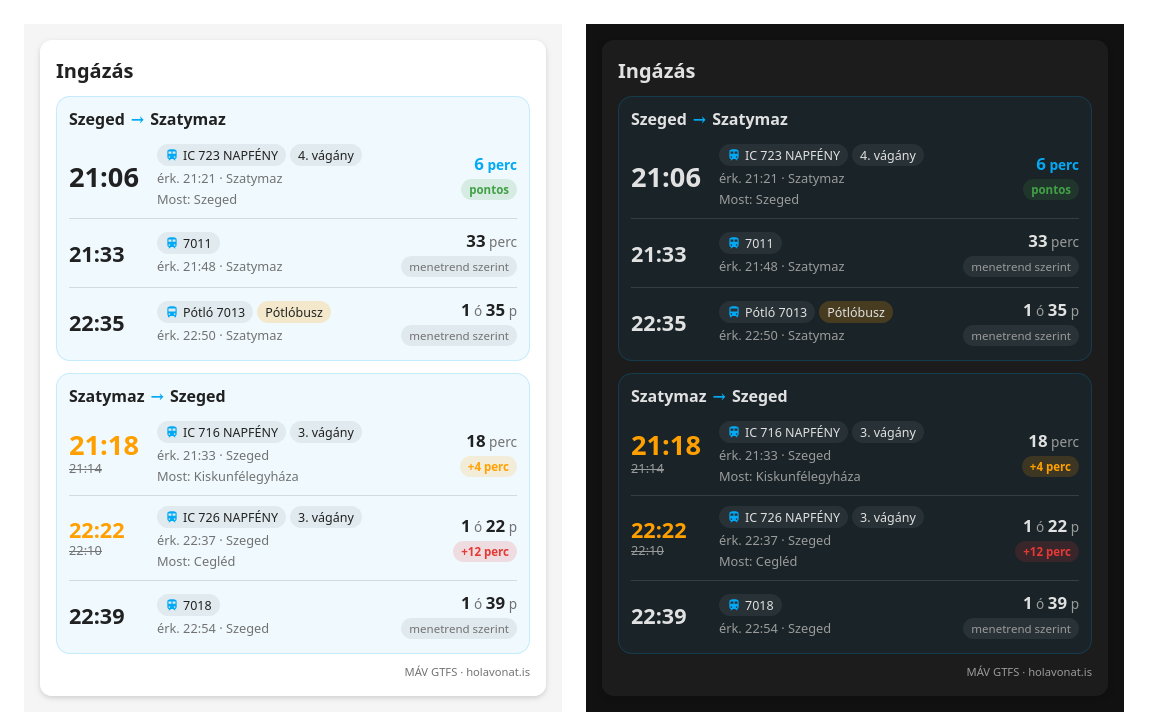
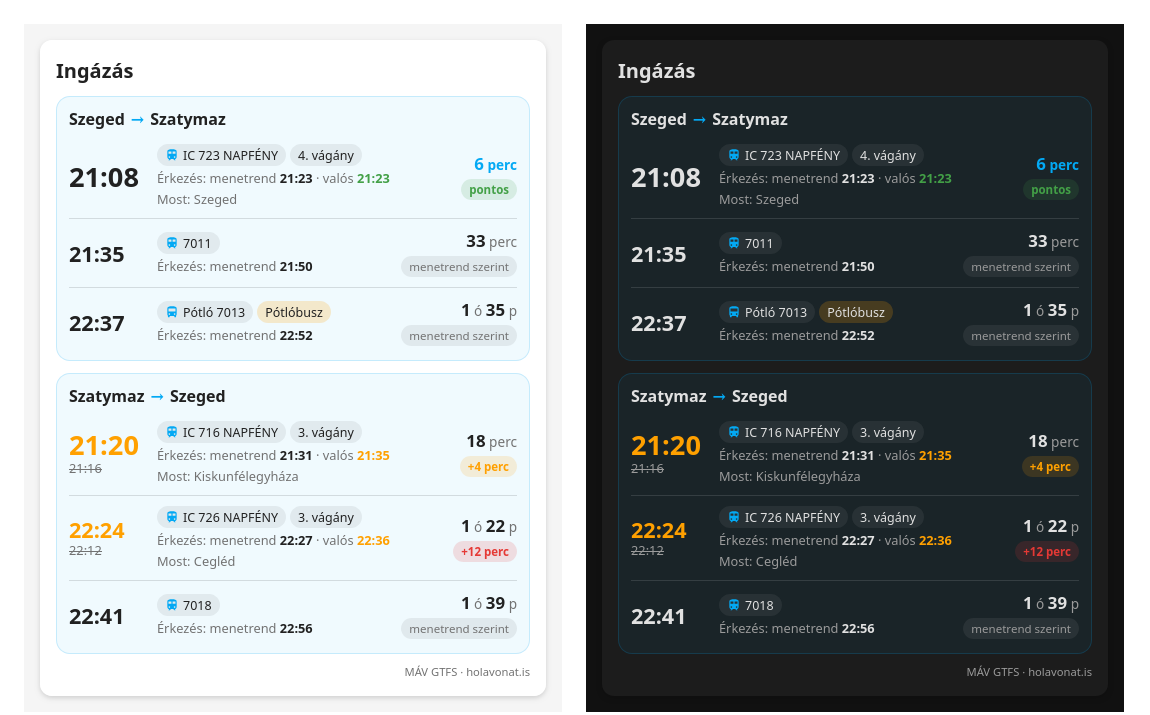
feat: show scheduled and actual arrival, logbook-friendly entity ids
The card shows the scheduled arrival and, with realtime data, the actual
arrival. New departure sensors get a sensor.holavonat_ prefix so one glob
can exclude them from the logbook.

diff --git a/custom_components/holavonat/frontend/holavonat-card.js b/custom_components/holavonat/frontend/holavonat-card.js
@@ -17,7 +17,9 @@ const STRINGS = {
     minShort: "p",
     platform: "vágány",
     at: "Most",
-    arrives: "érk.",
+    arrives: "Érkezés",
+    scheduledShort: "menetrend",
+    actualShort: "valós",
     none: "Nincs több közvetlen vonat a következő héten.",
     noRoutes: "Nincs beállított Holavonat útvonal.",
     bus: "Pótlóbusz",
@@ -33,7 +35,9 @@ const STRINGS = {
     minShort: "m",
     platform: "platform",
     at: "Now",
-    arrives: "arr.",
+    arrives: "Arrival",
+    scheduledShort: "scheduled",
+    actualShort: "actual",
     none: "No more direct trains in the next week.",
     noRoutes: "No Holavonat route configured.",
     bus: "Replacement bus",
@@ -161,7 +165,7 @@ class HolavonatCard extends HTMLElement {
         </div>
         <div class="info">
           <div class="meta">${meta}</div>
-          <div class="sub">${t.arrives} ${this._time(train.expected_arrival)} · ${esc(train.destination)}</div>
+          ${this._arrival(train)}
           ${where}
         </div>
         <div class="right">
@@ -169,6 +173,18 @@ class HolavonatCard extends HTMLElement {
           ${this._delayBadge(train)}
         </div>
       </div>`;
+  }
+
+  _arrival(train) {
+    const t = this._t;
+    const scheduled = this._time(train.scheduled_arrival);
+    let actual = "";
+    if (train.realtime && train.arrival_delay_min != null) {
+      const d = train.arrival_delay_min;
+      const cls = d >= 10 ? "bad" : d > 0 ? "late" : "ok";
+      actual = ` · ${t.actualShort} <b class="arr ${cls}">${this._time(train.expected_arrival)}</b>`;
+    }
+    return `<div class="sub arrival">${t.arrives}: ${t.scheduledShort} <b>${scheduled}</b>${actual}</div>`;
   }
 
   _direction(dir) {
@@ -257,6 +273,11 @@ const STYLE = `
   .chip svg { width: 14px; height: 14px; color: var(--hv-accent); }
   .chip.bus { background: color-mix(in srgb, var(--hv-warn) 20%, transparent); }
   .sub, .where { font-size: .8rem; color: var(--hv-muted); margin-top: 3px; white-space: nowrap; overflow: hidden; text-overflow: ellipsis; }
+  .sub.arrival { white-space: normal; }
+  .sub b { font-weight: 600; color: var(--primary-text-color); font-variant-numeric: tabular-nums; }
+  .sub b.arr.late { color: var(--hv-warn); }
+  .sub b.arr.bad { color: var(--hv-bad); }
+  .sub b.arr.ok { color: var(--hv-ok); }
   .right { text-align: right; display: flex; flex-direction: column; align-items: flex-end; gap: 4px; }
   .countdown { font-size: .85rem; color: var(--hv-muted); white-space: nowrap; }
   .countdown b { font-size: 1.05rem; color: var(--primary-text-color); }

diff --git a/custom_components/holavonat/trains.py b/custom_components/holavonat/trains.py
@@ -87,13 +87,17 @@ class Departure:
         return self.connection.scheduled_departure + timedelta(seconds=delay)
 
     @property
-    def expected_arrival(self) -> datetime:
+    def arrival_delay_seconds(self) -> int | None:
+        """Delay at the destination, or the current delay when that is not known yet."""
         if self.arrival_realtime:
-            delay = self.arrival_realtime.delay_seconds
-        elif self.departure_realtime:
-            delay = self.departure_realtime.delay_seconds
-        else:
-            delay = 0
+            return self.arrival_realtime.delay_seconds
+        if self.departure_realtime:
+            return self.departure_realtime.delay_seconds
+        return None
+
+    @property
+    def expected_arrival(self) -> datetime:
+        delay = self.arrival_delay_seconds or 0
         return self.connection.scheduled_arrival + timedelta(seconds=delay)
 
     def as_dict(self) -> dict[str, Any]:
@@ -109,6 +113,11 @@ class Departure:
             "delay_min": round(dep.delay_seconds / 60) if dep else None,
             "scheduled_arrival": c.scheduled_arrival.isoformat(),
             "expected_arrival": self.expected_arrival.isoformat(),
+            "arrival_delay_min": (
+                round(self.arrival_delay_seconds / 60)
+                if self.arrival_delay_seconds is not None
+                else None
+            ),
             "platform": dep.platform if dep else None,
             "current_stop": dep.current_stop if dep else None,
             "realtime": self.realtime,

diff --git a/custom_components/holavonat/sensor.py b/custom_components/holavonat/sensor.py
@@ -11,6 +11,7 @@ from homeassistant.core import HomeAssistant, callback
 from homeassistant.helpers.device_registry import DeviceEntryType, DeviceInfo
 from homeassistant.helpers.entity_platform import AddConfigEntryEntitiesCallback
 from homeassistant.helpers.update_coordinator import CoordinatorEntity
+from homeassistant.util import slugify
 
 from . import HolavonatConfigEntry
 from .const import (
@@ -78,6 +79,9 @@ class HolavonatDepartureSensor(CoordinatorEntity[RouteCoordinator], SensorEntity
         self._direction = direction
         self._position = position
         self._attr_name = f"{origin} → {destination} {position + 1}."
+        # Common prefix, so one glob can exclude all departures from the logbook.
+        # Only used for new entities, existing ones keep their registry entity_id.
+        self.entity_id = f"sensor.{slugify(f'{DOMAIN} {origin} {destination} {position + 1}')}"
         # Always present, so the dashboard card can group sensors without a departure.
         self._static_attributes = {
             "origin": origin,

diff --git a/README.md b/README.md
@@ -72,8 +72,8 @@ A link vagy a jelszó később az integráció menüjében az **Újrakonfigurál
 
 | Név | Entitás | Jelentés |
 |---|---|---|
-| Szeged → Budapest-Nyugati 1. … 3. | `sensor.szeged_budapest_nyugati_1` … `_3` | A következő 3 vonat várható indulása Szegedről |
-| Budapest-Nyugati → Szeged 1. … 3. | `sensor.budapest_nyugati_szeged_1` … `_3` | A következő 3 vonat várható indulása a Nyugatiból |
+| Szeged → Budapest-Nyugati 1. … 3. | `sensor.holavonat_szeged_budapest_nyugati_1` … `_3` | A következő 3 vonat várható indulása Szegedről |
+| Budapest-Nyugati → Szeged 1. … 3. | `sensor.holavonat_budapest_nyugati_szeged_1` … `_3` | A következő 3 vonat várható indulása a Nyugatiból |
 
 Az állapot a **várható** indulás: menetrend + késés, ha ismert. Attribútumok:
 
@@ -87,6 +87,7 @@ expected_departure: "2026-09-24T16:44:00+02:00"
 delay_min: 0            # null, ha nincs valós idejű adat
 scheduled_arrival: "2026-09-24T19:16:00+02:00"
 expected_arrival: "2026-09-24T19:16:00+02:00"
+arrival_delay_min: 0    # késés érkezéskor; null, ha nincs valós idejű adat
 platform: "6"           # null, ha nincs valós idejű adat
 current_stop: Vác       # hol jár most a vonat
 realtime: true
@@ -119,7 +120,8 @@ A kártyán látható:
 
 - a várható indulás, késésnél narancssárgával és alatta áthúzva a menetrend szerinti idő,
 - a visszaszámlálás (10 percen belül kiemelve),
-- a vonat neve, a vágány, az érkezés és hogy hol jár most a vonat,
+- a vonat neve, a vágány és hogy hol jár most a vonat,
+- az érkezés: menetrend szerinti idő, és ha van élő adat, a valós (várható) érkezés színkóddal,
 - a késés színkóddal: zöld pontos, narancs késik, piros 10 percnél többet késik, szürke menetrend szerinti (még nincs élő adat),
 - a pótlóbusz jelölése.
 
@@ -133,19 +135,43 @@ Ha nem a saját kártyát használod:
 type: entities
 title: Szeged ⇄ Budapest-Nyugati
 entities:
-  - entity: sensor.szeged_budapest_nyugati_1
+  - entity: sensor.holavonat_szeged_budapest_nyugati_1
     format: time
-  - entity: sensor.szeged_budapest_nyugati_2
+  - entity: sensor.holavonat_szeged_budapest_nyugati_2
     format: time
-  - entity: sensor.szeged_budapest_nyugati_3
+  - entity: sensor.holavonat_szeged_budapest_nyugati_3
     format: time
-  - entity: sensor.budapest_nyugati_szeged_1
+  - entity: sensor.holavonat_budapest_nyugati_szeged_1
     format: time
-  - entity: sensor.budapest_nyugati_szeged_2
+  - entity: sensor.holavonat_budapest_nyugati_szeged_2
     format: time
-  - entity: sensor.budapest_nyugati_szeged_3
+  - entity: sensor.holavonat_budapest_nyugati_szeged_3
     format: time
 ```
+
+## Napló és előzmények
+
+Minden új vonat egy bejegyzést hozna létre a Home Assistant **Naplójában**. Ezt integrációból nem lehet kikapcsolni, a `configuration.yaml`-ban kell kizárni. A szenzorok azonosítója `sensor.holavonat_` kezdetű, így egy sor elég az összes útvonalhoz:
+
+```yaml
+logbook:
+  exclude:
+    entity_globs:
+      - sensor.holavonat_*
+```
+
+Ha az előzményekben és az adatbázisban sem kellenek a korábbi vonatok, a `recorder` alól zárd ki ugyanígy. Ez a Naplóból is kiveszi őket:
+
+```yaml
+recorder:
+  exclude:
+    entity_globs:
+      - sensor.holavonat_*
+```
+
+A kártya és az automatizálások a kizárás után is működnek, mert az aktuális állapotot használják. Módosítás után a Home Assistantot újra kell indítani.
+
+A `sensor.holavonat_` előtag a 0.5.0 verziótól felvett útvonalakra érvényes. A korábban felvett útvonal szenzorai megtartják a régi azonosítót. Az útvonal törlése és újrafelvétele után azok is az új azonosítót kapják.
 
 ## Hibakeresés
 
